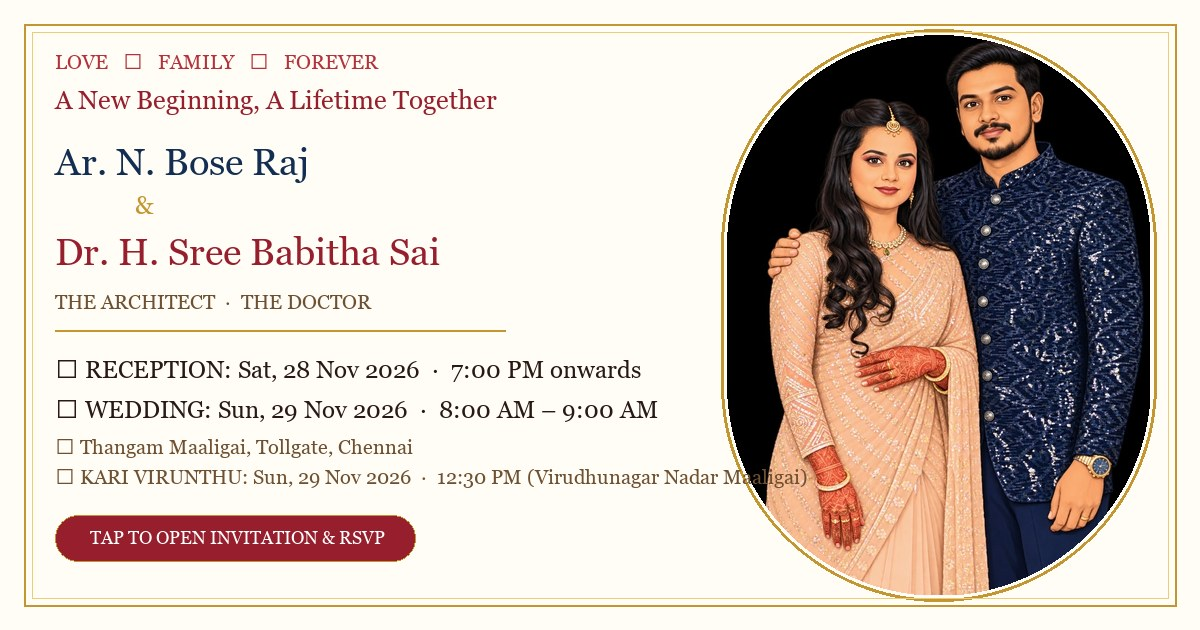
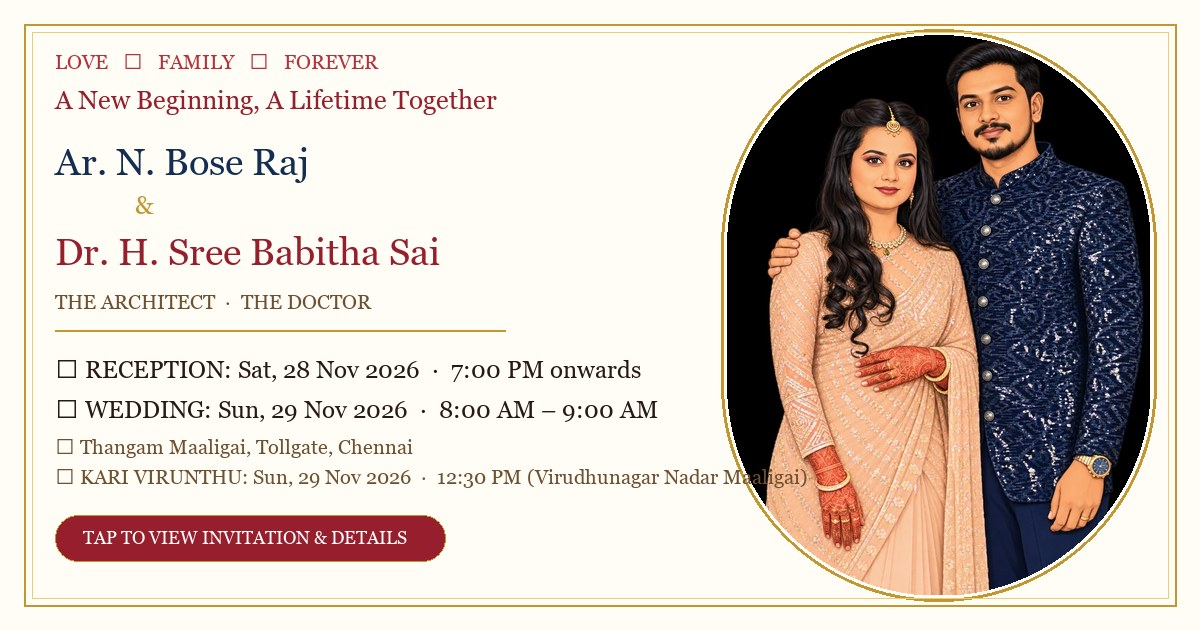
Remove RSVP section, please confirm, yes we will be there, and sorry can't make it buttons completely

Changed region(s): [[0.0617, 0.8143, 0.37, 0.9048]]

diff --git a/script.js b/script.js
@@ -286,21 +286,6 @@ function applyLanguage(lang) {
   setText('specValVitals', isTa ? 'இரு இதயங்கள், ஒரே துடிப்பு' : 'Two hearts, one rhythm');
   setText('specValDates', isTa ? '28 & 29 நவம்பர் 2026' : '28 & 29 November 2026');
 
-  // RSVP Section
-  // Confirm Presence Section
-  setText('rsvpHeading', isTa ? 'எங்களுடன் இணைந்து சிறப்பிக்க வருகிறீர்களா?' : 'Will You Be Joining Us?');
-  setText('rsvpSubtitle', isTa ? 'தங்களை அன்புடன் வரவேற்க காத்திருக்கிறோம்!' : 'We look forward to welcoming you and celebrating together!');
-  setText('rsvpPrompt', isTa
-    ? 'தங்களின் வருகையும் ஆசியுமே எங்கள் இல்ல திருமண விழாவின் பெருமகிழ்ச்சி. தங்கள் வருகையை வாட்ஸ்அப் மூலம் உறுதிசெய்ய வேண்டுகிறோம்:'
-    : 'Your presence and blessings are our greatest joy. Please let us know if you can join the celebrations via WhatsApp:');
-  setText('labelRsvpYes', isTa ? "மகிழ்ச்சியுடன் வருகிறோம்! 💐" : "Yes, We'll Be There! 💐");
-  setText('labelRsvpNo', isTa ? "நல்வாழ்த்துகளுடன் ஆசிகள் 💌" : "Sending Our Blessings 💌");
-  setText('rsvpFooterNote', isTa
-    ? 'பட்டனைத் தட்டினால் வாட்ஸ்அப்பில் தானாக தட்டச்சு செய்யப்பட்ட செய்தி திறக்கும்.'
-    : 'Tap a button to send a quick WhatsApp message to the couple & family.');
-
-  updateRsvpLinks(isTa);
-
   // Footer Section
   setText('closingQuote', isTa ? EVENT_CONFIG.closingQuoteTa : EVENT_CONFIG.closingQuoteEn);
   setText('closingHeart', isTa ? EVENT_CONFIG.closingHeartTa : EVENT_CONFIG.closingHeartEn);
@@ -385,40 +370,7 @@ function renderCelebrationCards(isTa) {
 }
 
 // ==============================================================================
-// 4. RSVP WHATSAPP LINK GENERATOR
-// ==============================================================================
-function updateRsvpLinks(isTa) {
-  const btnYes = document.getElementById('btnRsvpYes');
-  const btnNo = document.getElementById('btnRsvpNo');
-  const phone = EVENT_CONFIG.rsvpWhatsAppNumber;
-
-  let msgYes = '';
-  let msgNo = '';
-
-  if (isTa) {
-    if (guestName) {
-      msgYes = `வணக்கம்! ${guestName} சார்பாக மகிழ்ச்சியுடன் தெரிவிக்கிறோம்: Ar. N. போஸ் ராஜ் & Dr. H. ஸ்ரீ பபிதா சாய் திருமண விழாவிற்கு (நவம்பர் 28 & 29, 2026) நாங்கள் தவறாமல் வருகை தருகிறோம். விழாவில் சந்திப்போம்! 🎉`;
-      msgNo = `வணக்கம்! ${guestName} சார்பாக எங்கள் அன்பான வாழ்த்துகள். தவிர்க்க முடியாத காரணத்தால் எங்களால் திருமண விழாவிற்கு வர இயலவில்லை. மணமக்களுக்கு எங்களது உளமார்ந்த நல்வாழ்த்துகளும் ஆசிகளும்! 🙏`;
-    } else {
-      msgYes = `வணக்கம்! Ar. N. போஸ் ராஜ் & Dr. H. ஸ்ரீ பபிதா சாய் திருமண விழாவிற்கு (நவம்பர் 28 & 29, 2026) நான்/நாங்கள் மகிழ்ச்சியுடன் வருகை தருகிறோம். விழாவில் சந்திப்போம்! 🎉`;
-      msgNo = `வணக்கம்! தவிர்க்க முடியாத காரணத்தால் திருமண விழாவிற்கு வர இயலவில்லை. மணமக்களுக்கு எங்கள் உளமார்ந்த நல்வாழ்த்துகளும் ஆசிகளும்! 🙏`;
-    }
-  } else {
-    if (guestName) {
-      msgYes = `Namaste! ${guestName} will joyfully attend the wedding celebrations of Ar. N. Bose Raj & Dr. H. Sree Babitha Sai on 28th & 29th Nov 2026. Can't wait to celebrate together! 🎉`;
-      msgNo = `Namaste! ${guestName} sends heartfelt wishes. Unfortunately, we won't be able to attend the wedding celebrations, but our warmest blessings are with the lovely couple! 🙏`;
-    } else {
-      msgYes = `Namaste! I/We will joyfully attend the wedding celebrations of Ar. N. Bose Raj & Dr. H. Sree Babitha Sai on 28th & 29th Nov 2026. Looking forward to celebrating with you! 🎉`;
-      msgNo = `Namaste! Sending my warmest wishes. Unfortunately, I won't be able to attend, but my heartfelt blessings are with the couple! 🙏`;
-    }
-  }
-
-  if (btnYes) btnYes.href = `https://wa.me/${phone}?text=${encodeURIComponent(msgYes)}`;
-  if (btnNo) btnNo.href = `https://wa.me/${phone}?text=${encodeURIComponent(msgNo)}`;
-}
-
-// ==============================================================================
-// 5. ACCURATE COUNTDOWN TIMER
+// 4. ACCURATE COUNTDOWN TIMER
 // ==============================================================================
 function initCountdown() {
   const targetTime = new Date(EVENT_CONFIG.countdownTargetISO).getTime();

diff --git a/index.html b/index.html
@@ -13,7 +13,7 @@
   <meta property="og:type" content="website">
   <meta property="og:url" content="https://bosewedsbabi.netlify.app/">
   <meta property="og:title" content="Wedding Celebrations | Ar. N. Bose Raj &amp; Dr. H. Sree Babitha Sai">
-  <meta property="og:description" content="Saturday 28th &amp; Sunday 29th Nov 2026 • Thangam Maaligai, Chennai. Click to view invitation, timings, map &amp; RSVP!">
+  <meta property="og:description" content="Saturday 28th &amp; Sunday 29th Nov 2026 • Thangam Maaligai, Chennai. Click to view invitation, programme &amp; venue details!">
   <meta property="og:image" content="https://bosewedsbabi.netlify.app/assets/og-image.jpg">
   <meta property="og:image:secure_url" content="https://bosewedsbabi.netlify.app/assets/og-image.jpg">
   <meta property="og:image:type" content="image/jpeg">
@@ -24,7 +24,7 @@
   <!-- Twitter Meta Tags -->
   <meta name="twitter:card" content="summary_large_image">
   <meta name="twitter:title" content="Wedding Celebrations | Ar. N. Bose Raj &amp; Dr. H. Sree Babitha Sai">
-  <meta name="twitter:description" content="Saturday 28th &amp; Sunday 29th Nov 2026 • Thangam Maaligai, Chennai. Click to view invitation, timings, map &amp; RSVP!">
+  <meta name="twitter:description" content="Saturday 28th &amp; Sunday 29th Nov 2026 • Thangam Maaligai, Chennai. Click to view invitation, programme &amp; venue details!">
   <meta name="twitter:image" content="https://bosewedsbabi.netlify.app/assets/og-image.jpg">
 
   <!-- Favicon -->
@@ -226,37 +226,7 @@
       </dl>
     </section>
 
-    <!-- 5. CONFIRM ATTENDANCE SECTION -->
-    <section class="card rsvp-card reveal" aria-labelledby="rsvpHeading">
-      <div class="rsvp-emblem" aria-hidden="true">
-        <span>💐</span>
-      </div>
-
-      <h2 class="section-title rsvp-main-title" id="rsvpHeading">Will You Be Joining Us?</h2>
-      <p class="rsvp-sub-title" id="rsvpSubtitle">We look forward to welcoming you and celebrating together!</p>
-
-      <p class="rsvp-prompt" id="rsvpPrompt">
-        Your presence and blessings are our greatest joy. Please let us know if you can join the celebrations via WhatsApp:
-      </p>
-
-      <div class="rsvp-buttons">
-        <a id="btnRsvpYes" href="#" target="_blank" rel="noopener noreferrer" class="btn btn-rsvp-yes" aria-label="Confirm attendance via WhatsApp">
-          <span class="btn-icon" aria-hidden="true">💐</span>
-          <span id="labelRsvpYes">Yes, We'll Be There!</span>
-        </a>
-
-        <a id="btnRsvpNo" href="#" target="_blank" rel="noopener noreferrer" class="btn btn-rsvp-no" aria-label="Send blessings via WhatsApp">
-          <span class="btn-icon" aria-hidden="true">💌</span>
-          <span id="labelRsvpNo">Sending Our Blessings</span>
-        </a>
-      </div>
-
-      <p class="rsvp-footer-note" id="rsvpFooterNote">
-        Tap a button to send a quick WhatsApp message to the couple &amp; family.
-      </p>
-    </section>
-
-    <!-- 6. JOYOUS CLOSING & TEMPLE GOPURAM FOOTER -->
+    <!-- 5. JOYOUS CLOSING & TEMPLE GOPURAM FOOTER -->
     <footer class="card footer-card reveal" role="contentinfo">
       <!-- Temple Gopuram Emblem from the Invitation -->
       <div class="gopuram-wrapper" aria-hidden="true">

diff --git a/style.css b/style.css
@@ -752,95 +752,7 @@ body {
 }
 
 /* ==========================================================================
-   5. CONFIRM ATTENDANCE SECTION (Joyful WhatsApp Confirmation)
-   ========================================================================== */
-.rsvp-card {
-  border-color: var(--color-gold);
-  background-image: 
-    radial-gradient(circle at 50% 0%, rgba(244, 219, 135, 0.18) 0%, transparent 60%);
-  padding: 36px 22px;
-}
-
-.rsvp-emblem {
-  font-size: 2.4rem;
-  margin-bottom: 8px;
-  line-height: 1;
-}
-
-.rsvp-main-title {
-  font-family: var(--font-serif);
-  font-size: 1.55rem;
-  font-weight: 700;
-  color: var(--color-crimson);
-  margin-bottom: 6px;
-}
-
-.rsvp-sub-title {
-  font-size: 1rem;
-  font-weight: 600;
-  color: var(--color-navy);
-  margin-bottom: 14px;
-}
-
-.rsvp-prompt {
-  font-size: 0.96rem;
-  color: var(--text-secondary);
-  line-height: 1.55;
-  margin-bottom: 20px;
-  padding: 0 10px;
-}
-
-.rsvp-buttons {
-  display: flex;
-  flex-direction: column;
-  gap: 12px;
-}
-
-@media (min-width: 480px) {
-  .rsvp-buttons {
-    flex-direction: row;
-  }
-}
-
-.btn-rsvp-yes {
-  background: linear-gradient(135deg, #25D366 0%, #1EA853 100%);
-  color: #FFFFFF;
-  font-size: 1.05rem;
-  font-weight: 700;
-  flex: 1;
-  box-shadow: 0 4px 16px rgba(37, 211, 102, 0.35);
-}
-
-.btn-rsvp-yes:hover {
-  filter: brightness(1.08);
-  transform: translateY(-2px);
-}
-
-.btn-rsvp-no {
-  background: #FFFFFF;
-  border: 1.5px solid var(--color-gold);
-  color: var(--text-muted);
-  font-size: 0.98rem;
-  font-weight: 600;
-  flex: 1;
-}
-
-.btn-rsvp-no:hover {
-  background: var(--bg-card-alt);
-  color: var(--text-dark);
-  border-color: var(--color-crimson);
-  transform: translateY(-2px);
-}
-
-.rsvp-footer-note {
-  font-size: 0.82rem;
-  color: var(--text-muted);
-  font-style: italic;
-  margin-top: 14px;
-}
-
-/* ==========================================================================
-   6. FOOTER & TEMPLE GOPURAM
+   5. FOOTER & TEMPLE GOPURAM
    ========================================================================== */
 .footer-card {
   padding: 34px 20px;
